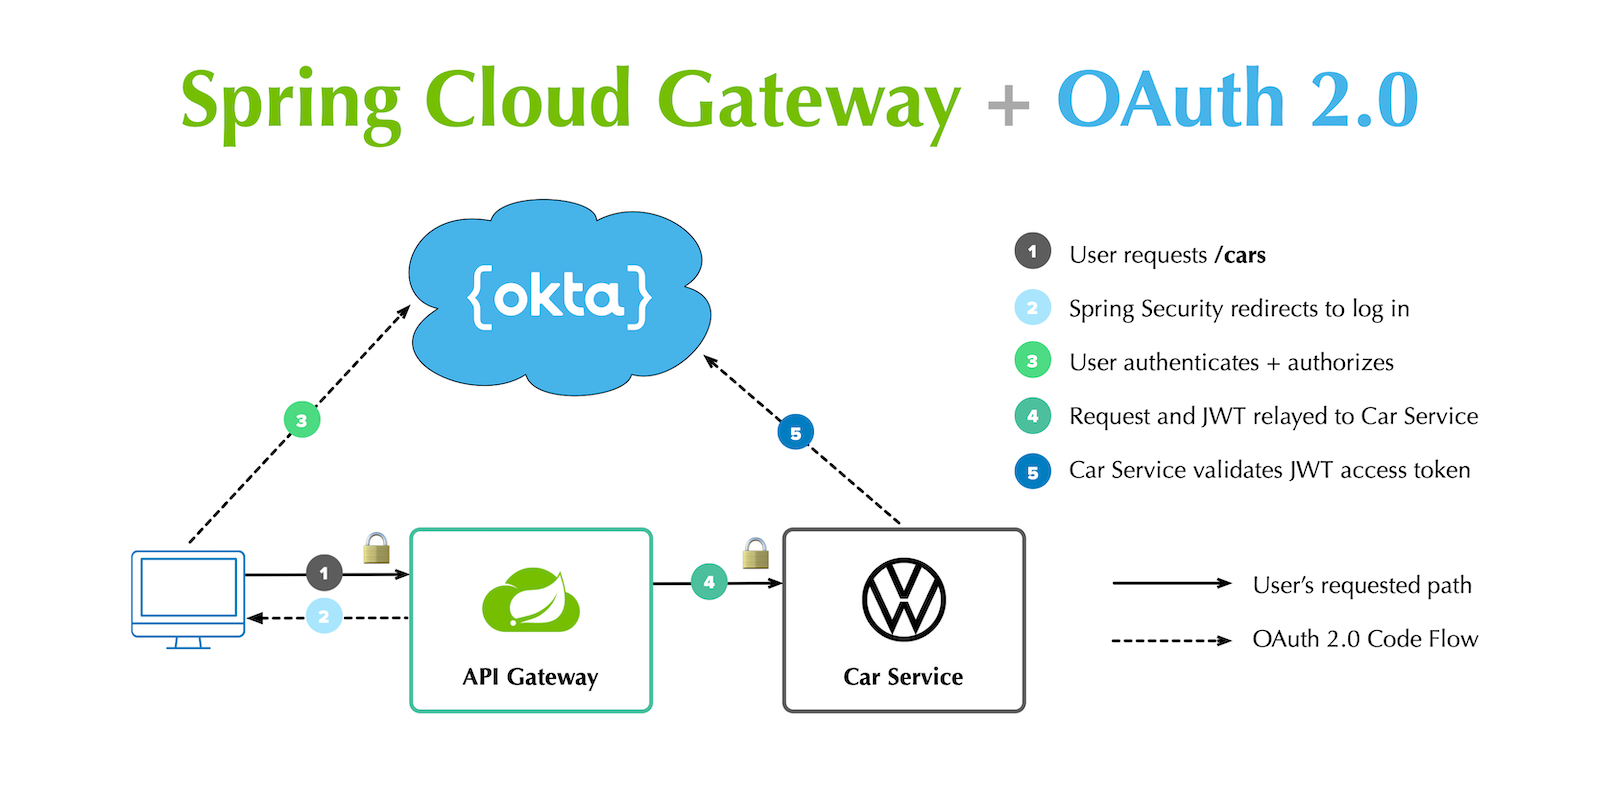
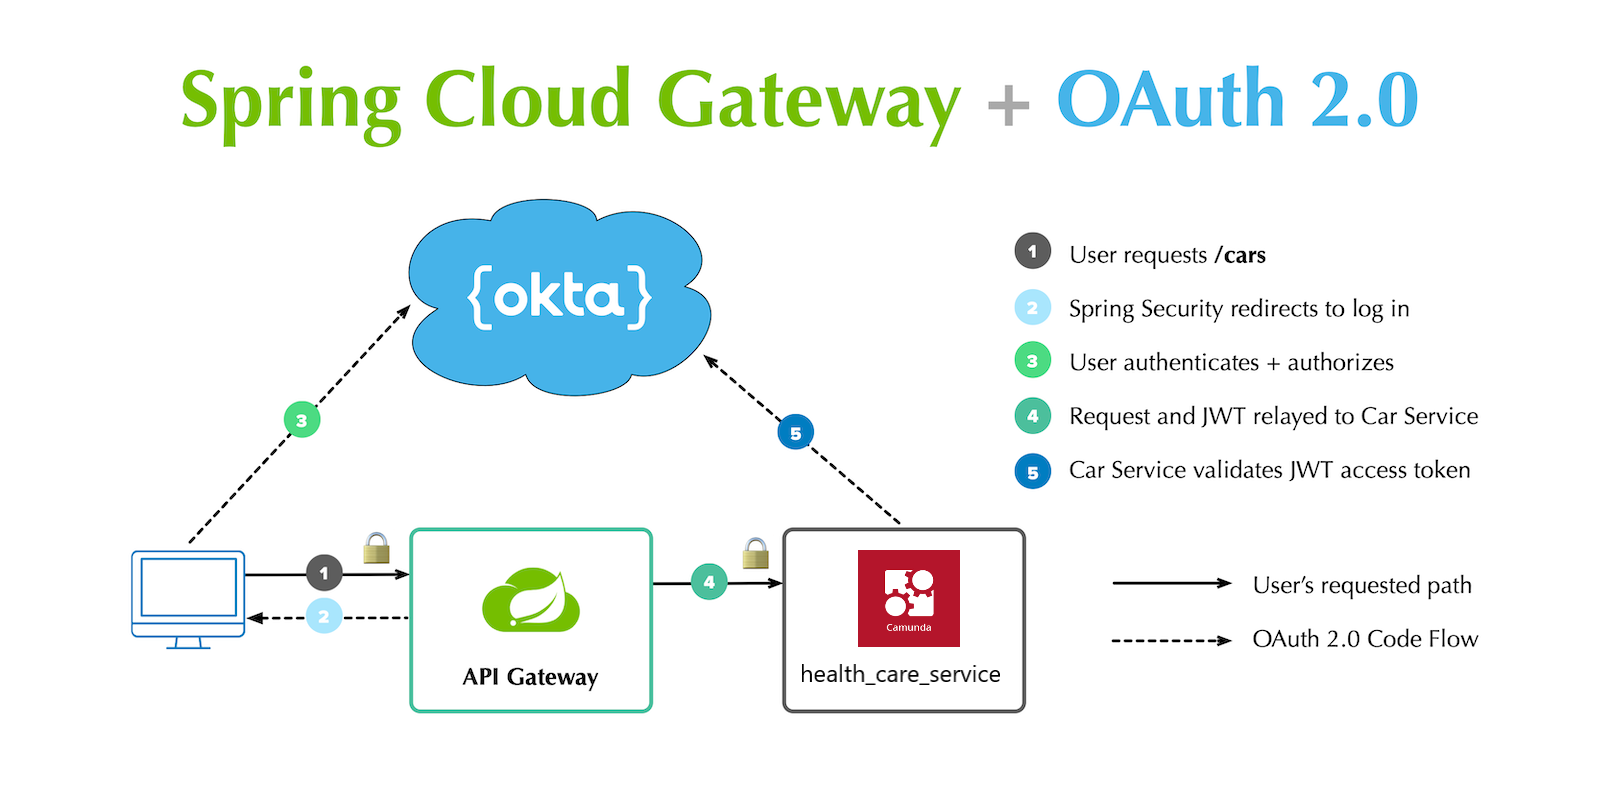
added save prospect by external task

Changed region(s): [[0.5, 0.6875, 0.625, 0.875]]

diff --git a/health-care-service/src/main/java/com/github/huksley/camunda/ExternalTaskExecutor.java b/health-care-service/src/main/java/com/github/huksley/camunda/ExternalTaskExecutor.java
@@ -3,6 +3,9 @@ package com.github.huksley.camunda;
 import com.fasterxml.jackson.annotation.JsonIgnoreProperties;
 import lombok.Builder;
 import lombok.Data;
+import lombok.NoArgsConstructor;
+import org.camunda.bpm.engine.externaltask.LockedExternalTask;
+import org.camunda.bpm.engine.variable.VariableMap;
 import org.slf4j.Logger;
 import org.slf4j.LoggerFactory;
 import org.springframework.beans.factory.annotation.Autowired;
@@ -11,6 +14,7 @@ import org.springframework.scheduling.annotation.Scheduled;
 import org.springframework.stereotype.Controller;
 import org.springframework.web.client.RestTemplate;
 
+import java.util.Date;
 import java.util.HashMap;
 import java.util.Map;
 
@@ -25,6 +29,9 @@ public class ExternalTaskExecutor {
     @Autowired
     private RestTemplate restTemplate;
 
+    @Autowired
+    ProspectRepository prospectRepository;
+
     @Value("${server.port}")
     int port = 8080;
 
@@ -34,6 +41,9 @@ public class ExternalTaskExecutor {
     @Data
     static class TaskInfo {
         String id;
+        String processInstanceId;
+        int retries;
+        Map<String, VariableReference2> variables;
     }
 
     @Data
@@ -45,6 +55,19 @@ public class ExternalTaskExecutor {
     }
 
     @Data
+    @NoArgsConstructor
+    static class Idnumber {
+        String value;
+    }
+
+    @Data
+    @NoArgsConstructor
+    static class ResponseVariables {
+        Idnumber idnumber;
+        Idnumber idnumber2;
+    }
+
+    @Data
     @Builder
     static class FetchTopicRequest {
         String topicName;
@@ -53,8 +76,19 @@ public class ExternalTaskExecutor {
     }
 
     @Data
+    static class VariablesList {
+        HashMap<String, VariableReference> variables;
+    }
+
+    @Data
     @Builder
     static class VariableReference {
+        String value;
+    }
+
+    @Data
+    @NoArgsConstructor
+    static class VariableReference2 {
         String value;
     }
 
@@ -68,16 +102,15 @@ public class ExternalTaskExecutor {
     @Scheduled(initialDelay = 5000, fixedRate = 5000)
     public void periodicalTaskExecutor() {
         FetchRequest r = FetchRequest.builder().
-            maxTasks(1).
-            workerId(workerId).
-            topics(new FetchTopicRequest[]{
-                FetchTopicRequest.builder().
-                    lockDuration(10000).
-                    topicName("approveExternal").
-                    variables(new String[]{"favoriteColor"}).
-                    build()
-            }).
-            build();
+                maxTasks(1).
+                workerId(workerId).
+                topics(new FetchTopicRequest[]{
+                        FetchTopicRequest.builder().
+                                lockDuration(10000).
+                                topicName("approveExternal").
+                                build()
+                }).
+                build();
 
         try {
             String fetchUrl = "http://localhost:" + port + "/engine-rest/external-task/fetchAndLock";
@@ -85,12 +118,18 @@ public class ExternalTaskExecutor {
             log.info("Got {} external tasks to execute", fetchResponse.length);
             for (TaskInfo task : fetchResponse) {
                 log.info("Marking {} as complete", task.getId());
+                Prospect prospect = new Prospect();
+                prospect.setProcessID(task.getProcessInstanceId());
+                prospect.setName(((VariableReference2)task.getVariables().get("name")).getValue());
+                prospect.setIsReferral(((VariableReference2)task.getVariables().get("isReferral")).getValue().equals("true"));
+                prospect.setIdNumber(((VariableReference2)task.getVariables().get("idNumber")).getValue());
+                prospect = prospectRepository.save(prospect);
                 String completeUrl = "http://localhost:" + port + "/engine-rest/external-task/" + task.getId() + "/complete";
                 CompleteRequest completeRequest = CompleteRequest.builder().
-                    workerId(workerId).
-                    variables(new HashMap<>()).
-                    build();
-                completeRequest.variables.put("approved", VariableReference.builder().value("Certified fresh!").build());
+                        workerId(workerId).
+                        variables(new HashMap<>()).
+                        build();
+                completeRequest.variables.put("created", VariableReference.builder().value(String.valueOf(prospect.getId())).build());
                 restTemplate.postForEntity(completeUrl, completeRequest, null);
             }
         } catch (Exception e) {

diff --git a/health-care-service/src/main/java/com/github/huksley/camunda/CamundaApplication.java b/health-care-service/src/main/java/com/github/huksley/camunda/CamundaApplication.java
@@ -30,6 +30,7 @@ import org.springframework.web.filter.CorsFilter;
 
 import java.security.Principal;
 import java.util.Collections;
+import java.util.Optional;
 
 @SpringBootApplication
 @EnableProcessApplication
@@ -54,11 +55,23 @@ public class CamundaApplication {
         return "Hello, "+ username ;
     }
 
-    @GetMapping(value = "/prospect/{processID}")
-    public Prospect getProspect(@PathVariable String processID) {
+    @GetMapping(value = "/prospect/process/{processID}")
+    public Prospect getProspectByProcess(@PathVariable String processID) {
 
-        Prospect prospect = prospectService.getProspect(processID);
-        return prospect;
+        Optional<Prospect> prospect = prospectService.getProspectByProcess(processID);
+        return prospect.orElse(new Prospect());
+    }
+
+    @GetMapping(value = "/prospect/{id}")
+    public Prospect getProspectByID(@PathVariable Long id) {
+        Optional<Prospect> prospect = prospectService.getProspectByID(id);
+        return prospect.orElse(new Prospect());
+    }
+
+    @GetMapping(value = "/prospect/businesskey/{idnumber}")
+    public Prospect getProspectByIDNumber(@PathVariable String idnumber) {
+        Optional<Prospect> prospect = prospectService.getProspectByIDNumber(idnumber);
+        return prospect.orElse(new Prospect());
     }
 
     @Configuration

diff --git a/health-care-service/src/main/java/com/github/huksley/camunda/ProspectService.java b/health-care-service/src/main/java/com/github/huksley/camunda/ProspectService.java
@@ -3,6 +3,8 @@ package com.github.huksley.camunda;
 import org.springframework.beans.factory.annotation.Autowired;
 import org.springframework.stereotype.Service;
 
+import java.util.Optional;
+
 @Service
 public class ProspectService {
 
@@ -14,11 +16,23 @@ public class ProspectService {
 //        this.prospectRepository = prospectRepository;
 //    }
 
-    public Prospect getProspect(String processID) {
-        return prospectRepository.findByProcessID(processID);
-    }
+//    public Prospect getProspect(String processID) {
+//        return prospectRepository.findByProcessID(processID);
+//    }
 
     public Prospect saveProspect(Prospect prospect) {
         return prospectRepository.save(prospect);
+    }
+
+    public Optional<Prospect> getProspectByProcess(String processID) {
+        return prospectRepository.findByProcessID(processID);
+    }
+
+    public Optional<Prospect> getProspectByID(Long id) {
+        return prospectRepository.findById(id);
+    }
+
+    public Optional<Prospect> getProspectByIDNumber(String idnumber) {
+        return prospectRepository.findByIdNumber(idnumber);
     }
 }

diff --git a/health-care-service/src/main/java/com/github/huksley/camunda/ProspectRepository.java b/health-care-service/src/main/java/com/github/huksley/camunda/ProspectRepository.java
@@ -1,11 +1,16 @@
 package com.github.huksley.camunda;
 
 
+import org.springframework.data.jpa.repository.JpaRepository;
 import org.springframework.data.repository.CrudRepository;
 import org.springframework.stereotype.Repository;
 
-@Repository
-public interface ProspectRepository extends CrudRepository<Prospect, Long> {
+import java.util.Optional;
 
-    Prospect findByProcessID(String processID);
+@Repository
+public interface ProspectRepository extends JpaRepository<Prospect, Long> {
+
+    Optional<Prospect> findByProcessID(String processID);
+
+    Optional<Prospect> findByIdNumber(String idnumber);
 }

diff --git a/health-care-service/src/main/java/com/github/huksley/camunda/Prospect.java b/health-care-service/src/main/java/com/github/huksley/camunda/Prospect.java
@@ -17,6 +17,7 @@ public class Prospect{
 
     String processID;
     String name;
+    String idNumber;
     Boolean isReferral;
 
 }
